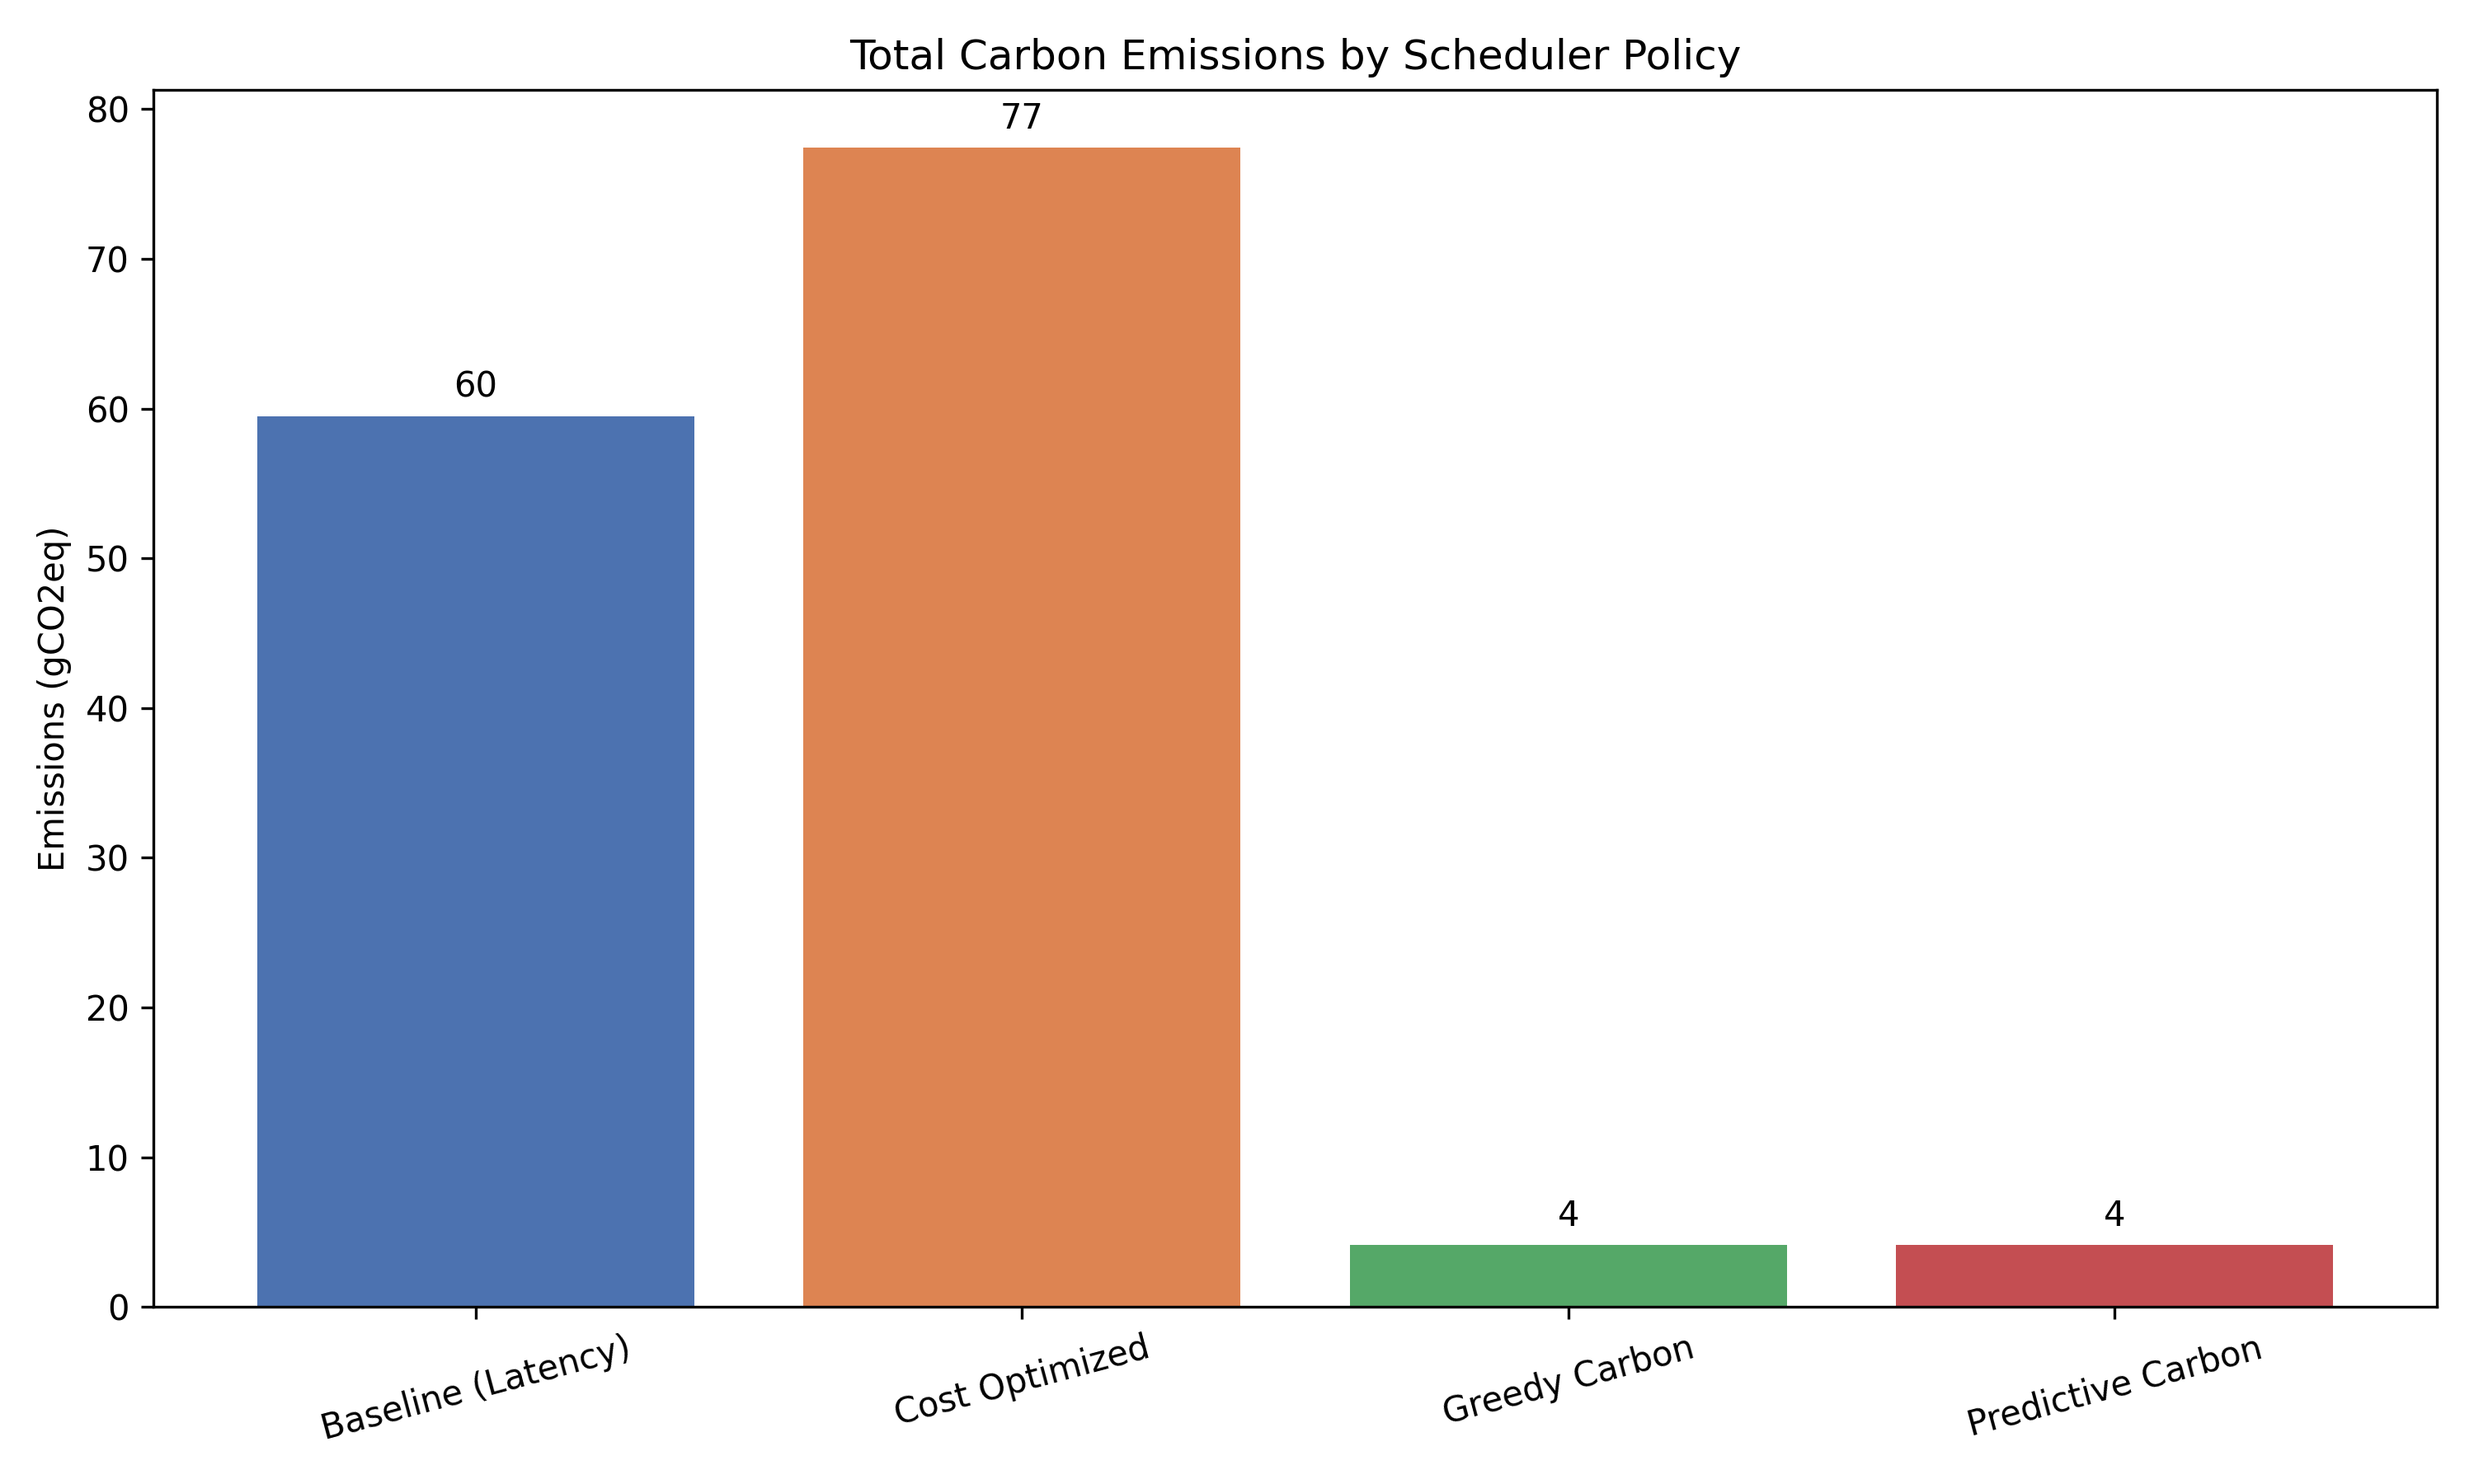
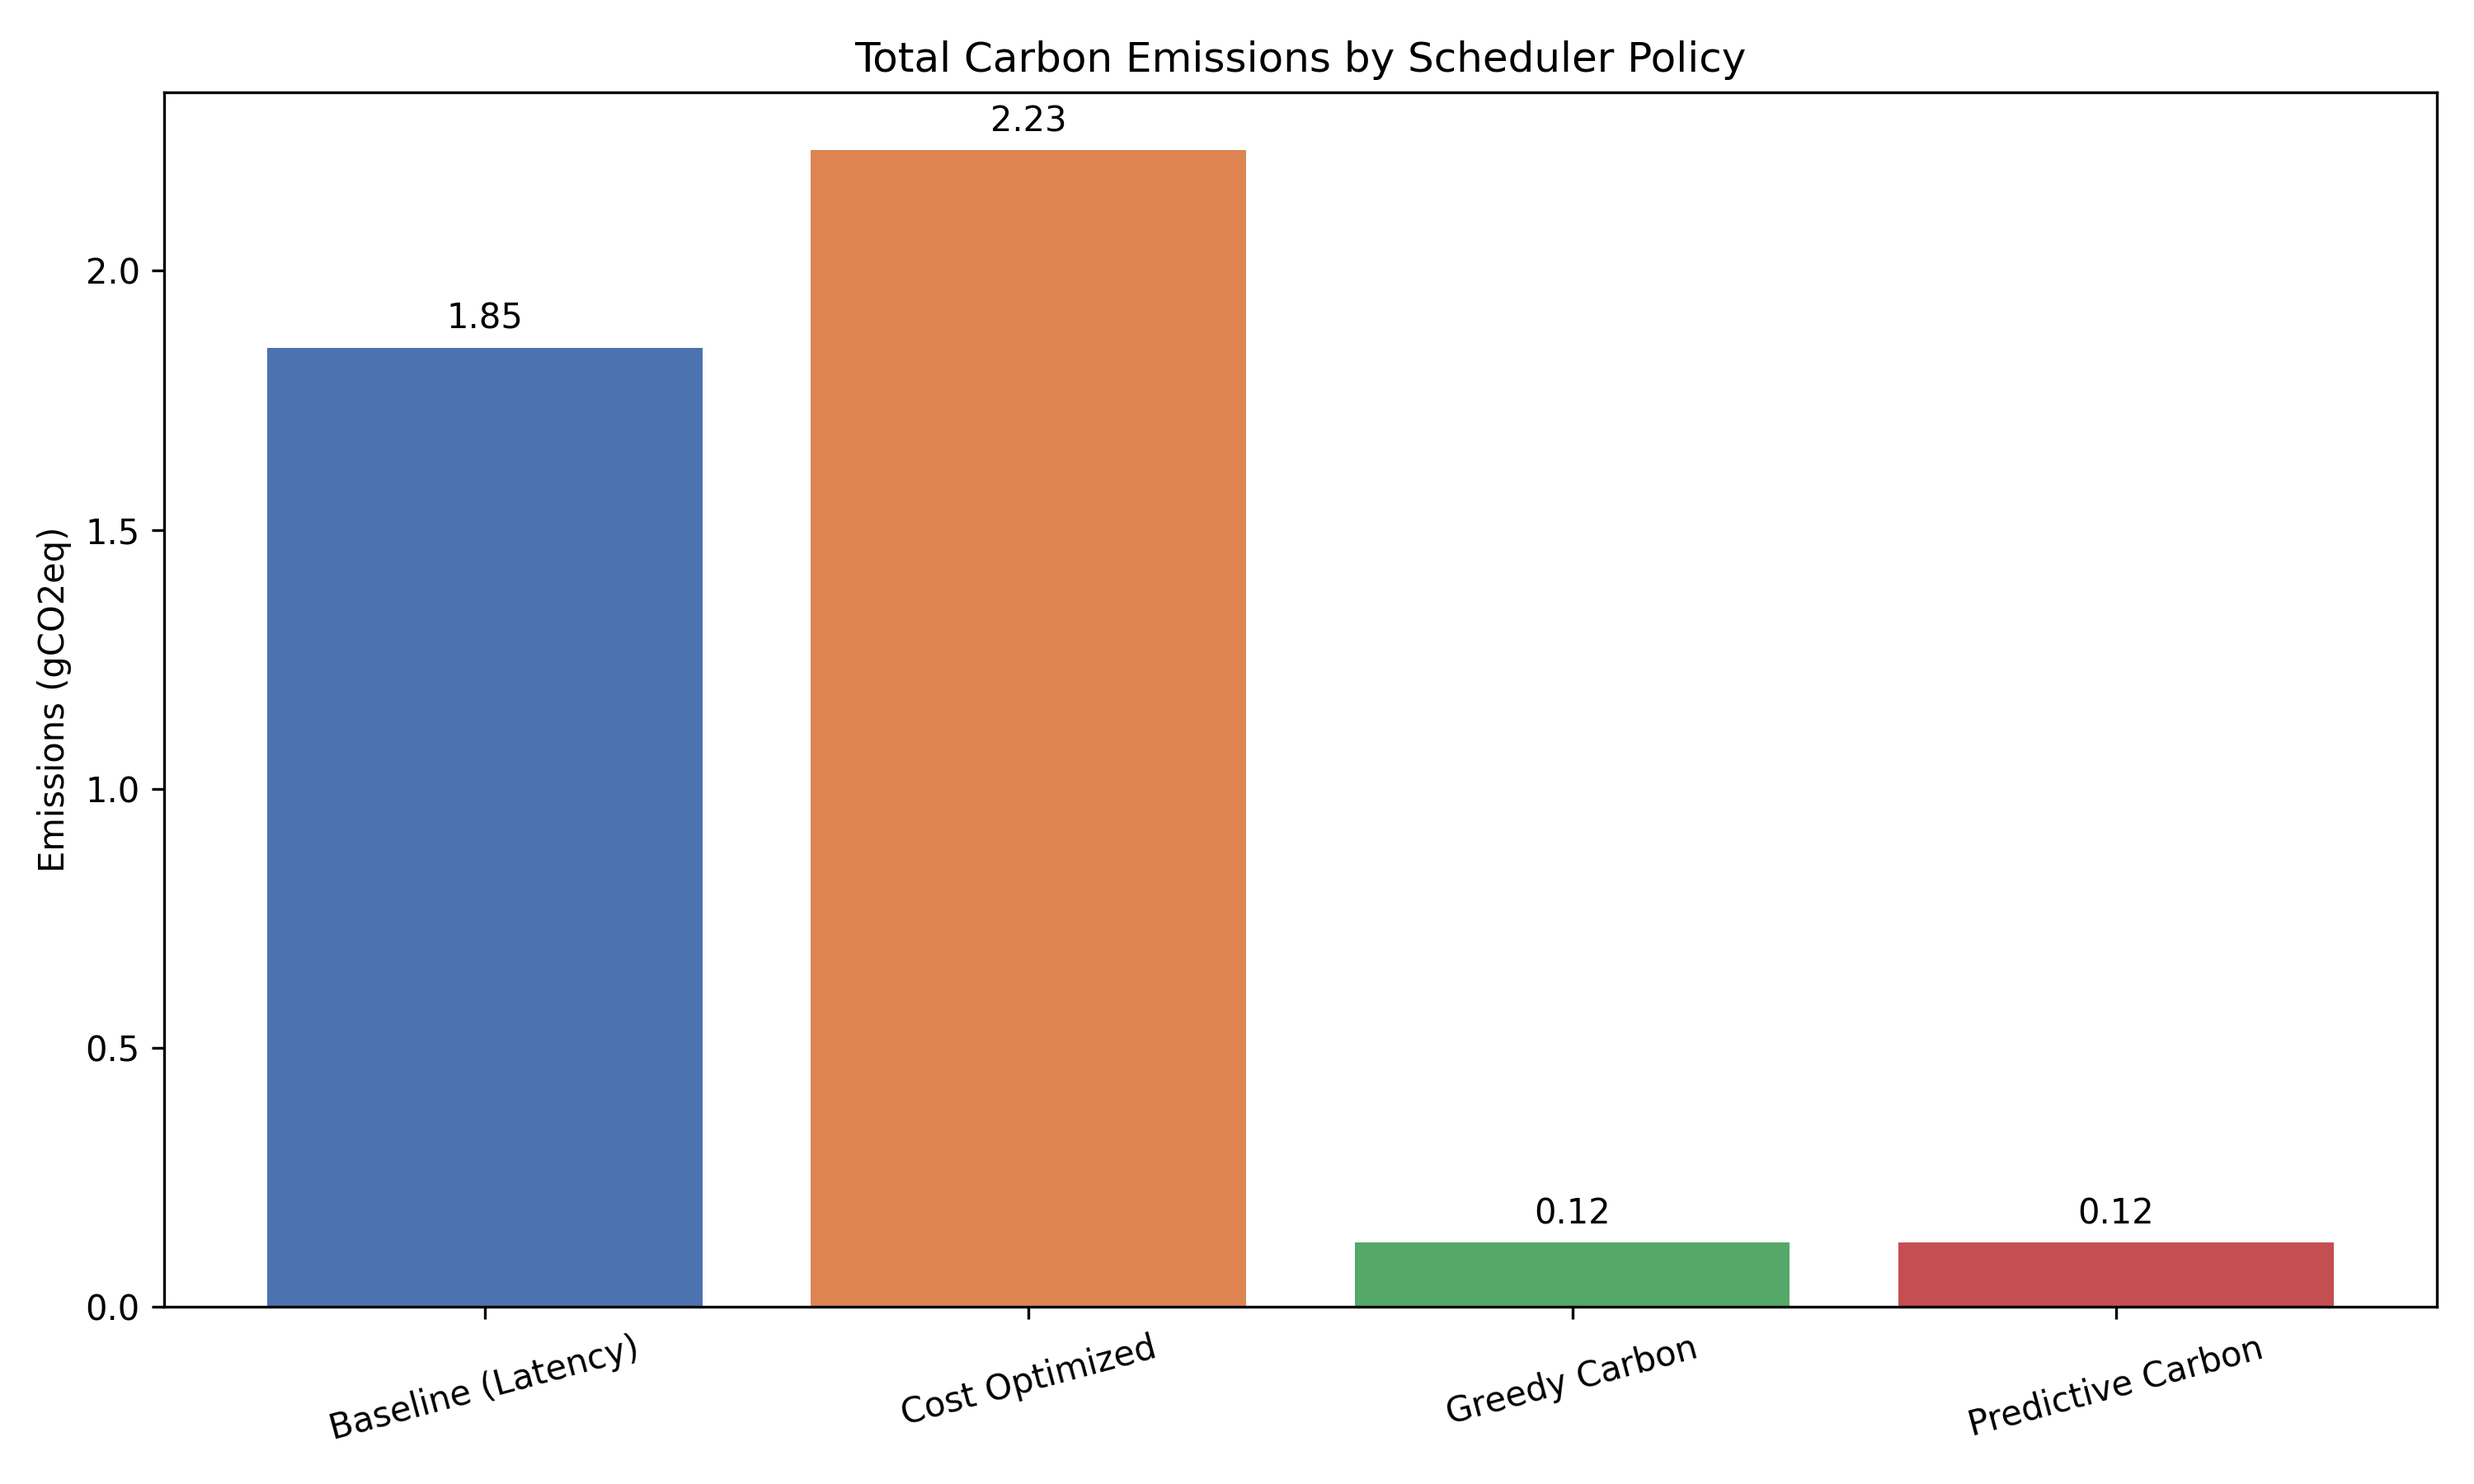
Refractor plotting decimal places

diff --git a/visualization/plotter.py b/visualization/plotter.py
@@ -81,7 +81,7 @@ def plot_emission_bars(results: dict, output_dir: str = "results"):
     for bar in bars:
         yval = bar.get_height()
         plt.text(bar.get_x() + bar.get_width()/2, yval + (max(emissions)*0.01), 
-                 f"{yval:.0f}", ha='center', va='bottom')
+                 f"{yval:.2f}", ha='center', va='bottom')
                  
     output_path = os.path.join(output_dir, "emissions_bar.png")
     plt.tight_layout()
